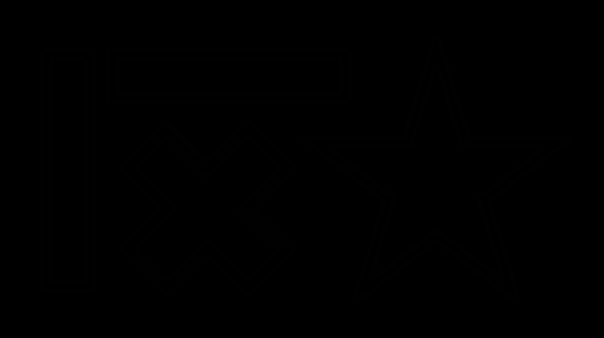
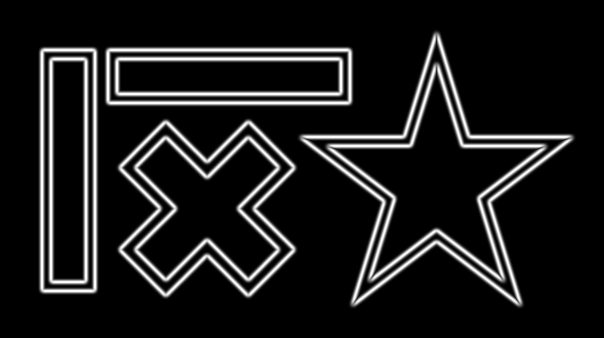
image saving issue resolved

Changed region(s): [[0.0596, 0.0888, 0.9536, 0.9172]]

diff --git a/CV_A1_/A1_corner_detection.py b/CV_A1_/A1_corner_detection.py
@@ -106,7 +106,7 @@ def non_maximum_suppression_win(R, winSize):
     x_bound = R.shape[0] - winSize + 1
     y_bound = R.shape[1] - winSize + 1
 
-    elapsed_ = list(range(0, R.shape[0], R.shape[1] // 20))
+    # elapsed_ = list(range(0, R.shape[0], R.shape[1] // 20))
     for x in range(0, x_bound, winSize // 2):
         for y in range(0, y_bound, winSize // 2):
             local_maxima = R[x][y]
@@ -121,8 +121,8 @@ def non_maximum_suppression_win(R, winSize):
                     R[i][j] = 0
             # print(x, y, local_maxima, lm_x, lm_y)
             R[lm_x][lm_y] = local_maxima
-        if x in elapsed_:
-            print('.', end='')
+        #if x in elapsed_:
+        #    print('.', end='')
     return R
 
 
@@ -162,7 +162,10 @@ R_shapes = compute_corner_response(filtered_img_shapes)
 elapsed_time = time.process_time() - start_time
 print(' ---> done. /elapsed time:', elapsed_time)
 
+#print(np.min(R_shapes), np.max(R_shapes))
+R_shapes = cv2.normalize(R_shapes, None, alpha=0, beta=255, norm_type=cv2.NORM_MINMAX, dtype=cv2.CV_8U)
 cv2.imwrite('./result/part_3_corner_raw_shapes.png', R_shapes)
+R_shapes = cv2.normalize(R_shapes, None, alpha=0, beta=1, norm_type=cv2.NORM_MINMAX, dtype=cv2.CV_32F)
 print(' * corner responses of "shapes.png" saved to ./result/ directory.')
 
 print(' ## notice: press any key (on image window) to continue. !!do not close window!!\n')
@@ -178,7 +181,10 @@ R_lenna = compute_corner_response(filtered_img_lenna)
 elapsed_time = time.process_time() - start_time
 print(' ---> done. /elapsed time:', elapsed_time)
 
+#print(np.min(R_lenna), np.max(R_lenna))
+R_lenna = cv2.normalize(R_lenna, None, alpha=0, beta=255, norm_type=cv2.NORM_MINMAX, dtype=cv2.CV_8U)
 cv2.imwrite('./result/part_3_corner_raw_lenna.png', R_lenna)
+R_lenna = cv2.normalize(R_lenna, None, alpha=0, beta=1, norm_type=cv2.NORM_MINMAX, dtype=cv2.CV_32F)
 print(' * corner responses of "lenna.png" saved to ./result/ directory.')
 
 print(' ## notice: press any key (on image window) to continue. !!do not close window!!\n')
@@ -204,7 +210,7 @@ def corner_response_embedding(R, img):
     for i in range(R.shape[0]):
         for j in range(R.shape[1]):
             if R[i][j] > 0.1:
-                cv2.circle(rgb_img, (j, i), 5, (0, 255, 0), 1)
+                cv2.circle(rgb_img, (j, i), 5, (0, 1.0, 0), 1)
             else:
                 R[i][j] = 0
 
@@ -213,23 +219,29 @@ def corner_response_embedding(R, img):
 print('a, b) thresholding and corner response embedding to original images')
 
 # for shapes.png
+#print(np.min(img_shapes), np.max(img_shapes))
 thresholded_R_shapes, rgb_img_shapes = corner_response_embedding(R_shapes, img_shapes)
+#print(np.min(rgb_img_shapes), np.max(rgb_img_shapes))
+rgb_img_shapes = cv2.normalize(rgb_img_shapes, None, alpha=0, beta=255, norm_type=cv2.NORM_MINMAX, dtype=cv2.CV_8U)
 cv2.imwrite('./result/part_3_corner_bin_shapes.png', rgb_img_shapes)
-print(' * corner response embedding of "shapes.png" saved to ./result/ directory.')
+print(' ** corner response embedding of "shapes.png" saved to ./result/ directory.')
 
 print(' ## notice: press any key (on image window) to continue. !!do not close window!!\n')
 cv2.imshow("corner response > 0.1 :: shapes.png", rgb_img_shapes)
 cv2.waitKey(0)
 
 # for lenna.png
+#print(np.min(img_lenna), np.max(img_lenna))
 thresholded_R_lenna, rgb_img_lenna = corner_response_embedding(R_lenna, img_lenna)
+#print(np.min(rgb_img_lenna), np.max(rgb_img_lenna))
+rgb_img_lenna = cv2.normalize(rgb_img_lenna, None, alpha=0, beta=255, norm_type=cv2.NORM_MINMAX, dtype=cv2.CV_8U)
 cv2.imwrite('./result/part_3_corner_bin_lenna.png', rgb_img_lenna)
-print(' * corner response embedding of "lenna.png" saved to ./result/ directory.')
+print(' ** corner response embedding of "lenna.png" saved to ./result/ directory.')
 
 print(' ## notice: press any key (on image window) to continue. !!do not close window!!\n')
 cv2.imshow("corner response > 0.1 :: lenna.png", rgb_img_lenna)
 cv2.waitKey(0)
-print()
+#print()
 
 
 ## c) nms
@@ -246,8 +258,10 @@ elapsed_time = time.process_time() - start_time
 print(' ---> done. /elapsed time:', elapsed_time)
 
 _, rgb_img_shapes2 = corner_response_embedding(suppressed_R_shapes, img_shapes)
+#print(np.min(rgb_img_shapes2), np.max(rgb_img_shapes2))
+rgb_img_shapes2 = cv2.normalize(rgb_img_shapes2, None, alpha=0, beta=255, norm_type=cv2.NORM_MINMAX, dtype=cv2.CV_8U)
 cv2.imwrite('./result/part_3_corner_sup_shapes.png', rgb_img_shapes2)
-print(' * image gradients of "lenna.png" saved to ./result/ directory.')
+print(' ** NMS applied R of "shapes.png" saved to ./result/ directory.')
 
 print(' ## notice: press any key (on image window) to continue. !!do not close window!!\n')
 cv2.imshow("non-maximum suppressed :: shapes.png", rgb_img_shapes2)
@@ -261,8 +275,10 @@ elapsed_time = time.process_time() - start_time
 print(' ---> done. /elapsed time:', elapsed_time)
 
 _, rgb_img_lenna2 = corner_response_embedding(suppressed_R_lenna, img_lenna)
-cv2.imwrite('./result/part_3_corner_sup_lenna.png', rgb_img_shapes2)
-print(' * image gradients of "lenna.png" saved to ./result/ directory.')
+#print(np.min(rgb_img_lenna2), np.max(rgb_img_lenna2))
+rgb_img_lenna2 = cv2.normalize(rgb_img_lenna2, None, alpha=0, beta=255, norm_type=cv2.NORM_MINMAX, dtype=cv2.CV_8U)
+cv2.imwrite('./result/part_3_corner_sup_lenna.png', rgb_img_lenna2)
+print(' ** NMS applied R of "lenna.png" saved to ./result/ directory.')
 
 print(' ## notice: P#3 done. press any key (on image window) to finish.\n')
 cv2.imshow("non-maximum suppressed :: lenna.png", rgb_img_lenna2)

diff --git a/CV_A1_/A1_edge_detection.py b/CV_A1_/A1_edge_detection.py
@@ -171,6 +171,8 @@ mag_shapes, dir_shapes = compute_image_gradient(filtered_img_shapes)
 elapsed_time = time.process_time() - start_time
 print(' ---> done. /elapsed time:', elapsed_time)
 
+#print(mag_shapes)
+mag_shapes = cv2.normalize(mag_shapes, None, alpha=0, beta=255, norm_type=cv2.NORM_MINMAX, dtype=cv2.CV_8U)
 cv2.imwrite('./result/part_2_edge_raw_shapes.png', mag_shapes)
 print(' * image gradients of "shapes.png" saved to ./result/ directory.')
 
@@ -187,6 +189,8 @@ mag_lenna, dir_lenna = compute_image_gradient(filtered_img_lenna)
 elapsed_time = time.process_time() - start_time
 print(' ---> done. /elapsed time:', elapsed_time)
 
+#print(mag_lenna)
+mag_lenna = cv2.normalize(mag_lenna, None, alpha=0, beta=255, norm_type=cv2.NORM_MINMAX, dtype=cv2.CV_8U)
 cv2.imwrite('./result/part_2_edge_raw_lenna.png', mag_lenna)
 print(' * image gradients of "lenna.png" saved to ./result/ directory.')
 
@@ -210,6 +214,8 @@ suppressed_mag_shapes = non_maximum_suppression_dir(mag_shapes, dir_shapes)
 elapsed_time = time.process_time() - start_time
 print(' ---> done. /elapsed time:', elapsed_time)
 
+#print(suppressed_mag_shapes)
+suppressed_mag_shapes = cv2.normalize(suppressed_mag_shapes, None, alpha=0, beta=255, norm_type=cv2.NORM_MINMAX, dtype=cv2.CV_8U)
 cv2.imwrite('./result/part_2_edge_sup_shapes.png', suppressed_mag_shapes)
 print(' * non-maximum suppression result of shapes saved to ./result/ directory.')
 
@@ -226,6 +232,8 @@ suppressed_mag_lenna = non_maximum_suppression_dir(mag_lenna, dir_lenna)
 elapsed_time = time.process_time() - start_time
 print(' ---> done. /elapsed time:', elapsed_time)
 
+#print(suppressed_mag_lenna)
+suppressed_mag_lenna = cv2.normalize(suppressed_mag_lenna, None, alpha=0, beta=255, norm_type=cv2.NORM_MINMAX, dtype=cv2.CV_8U)
 cv2.imwrite('./result/part_2_edge_sup_lenna.png', suppressed_mag_lenna)
 print(' * non-maximum suppression result of lenna saved to ./result/ directory.')
 

diff --git a/CV_A1_/A1_image_filtering.py b/CV_A1_/A1_image_filtering.py
@@ -69,6 +69,9 @@ for i in range(3):
                 final_filtered_lenna[x][y] = filtered_img_lenna[u][v] / 255
         print(' ---> done.')
 
+#print(final_filtered_lenna)
+#print(final_filtered_lenna.shape)
+final_filtered_lenna = cv2.normalize(final_filtered_lenna, None, alpha=0, beta=255, norm_type=cv2.NORM_MINMAX, dtype=cv2.CV_8U)
 cv2.imwrite('./result/part_1_gaussian_filtered_lenna.png', final_filtered_lenna)
 print(' * filtered image of "lenna.png" saved to ./result/ directory.')
 cv2.imshow('Gaussian filtering of "Lenna.png" by Yoseob Kim', final_filtered_lenna)
@@ -101,6 +104,9 @@ for i in range(3):
                 final_filtered_shapes[x][y] = filtered_img_shapes[u][v] / 255
         print(' ---> done.')
 
+#print(final_filtered_shapes)
+#print(final_filtered_shapes.shape)
+final_filtered_shapes = cv2.normalize(final_filtered_shapes, None, alpha=0, beta=255, norm_type=cv2.NORM_MINMAX, dtype=cv2.CV_8U)
 cv2.imwrite('./result/part_1_gaussian_filtered_shapes.png', final_filtered_shapes)
 print(' * filtered image of "shapes.png" saved to ./result/ directory.')
 
